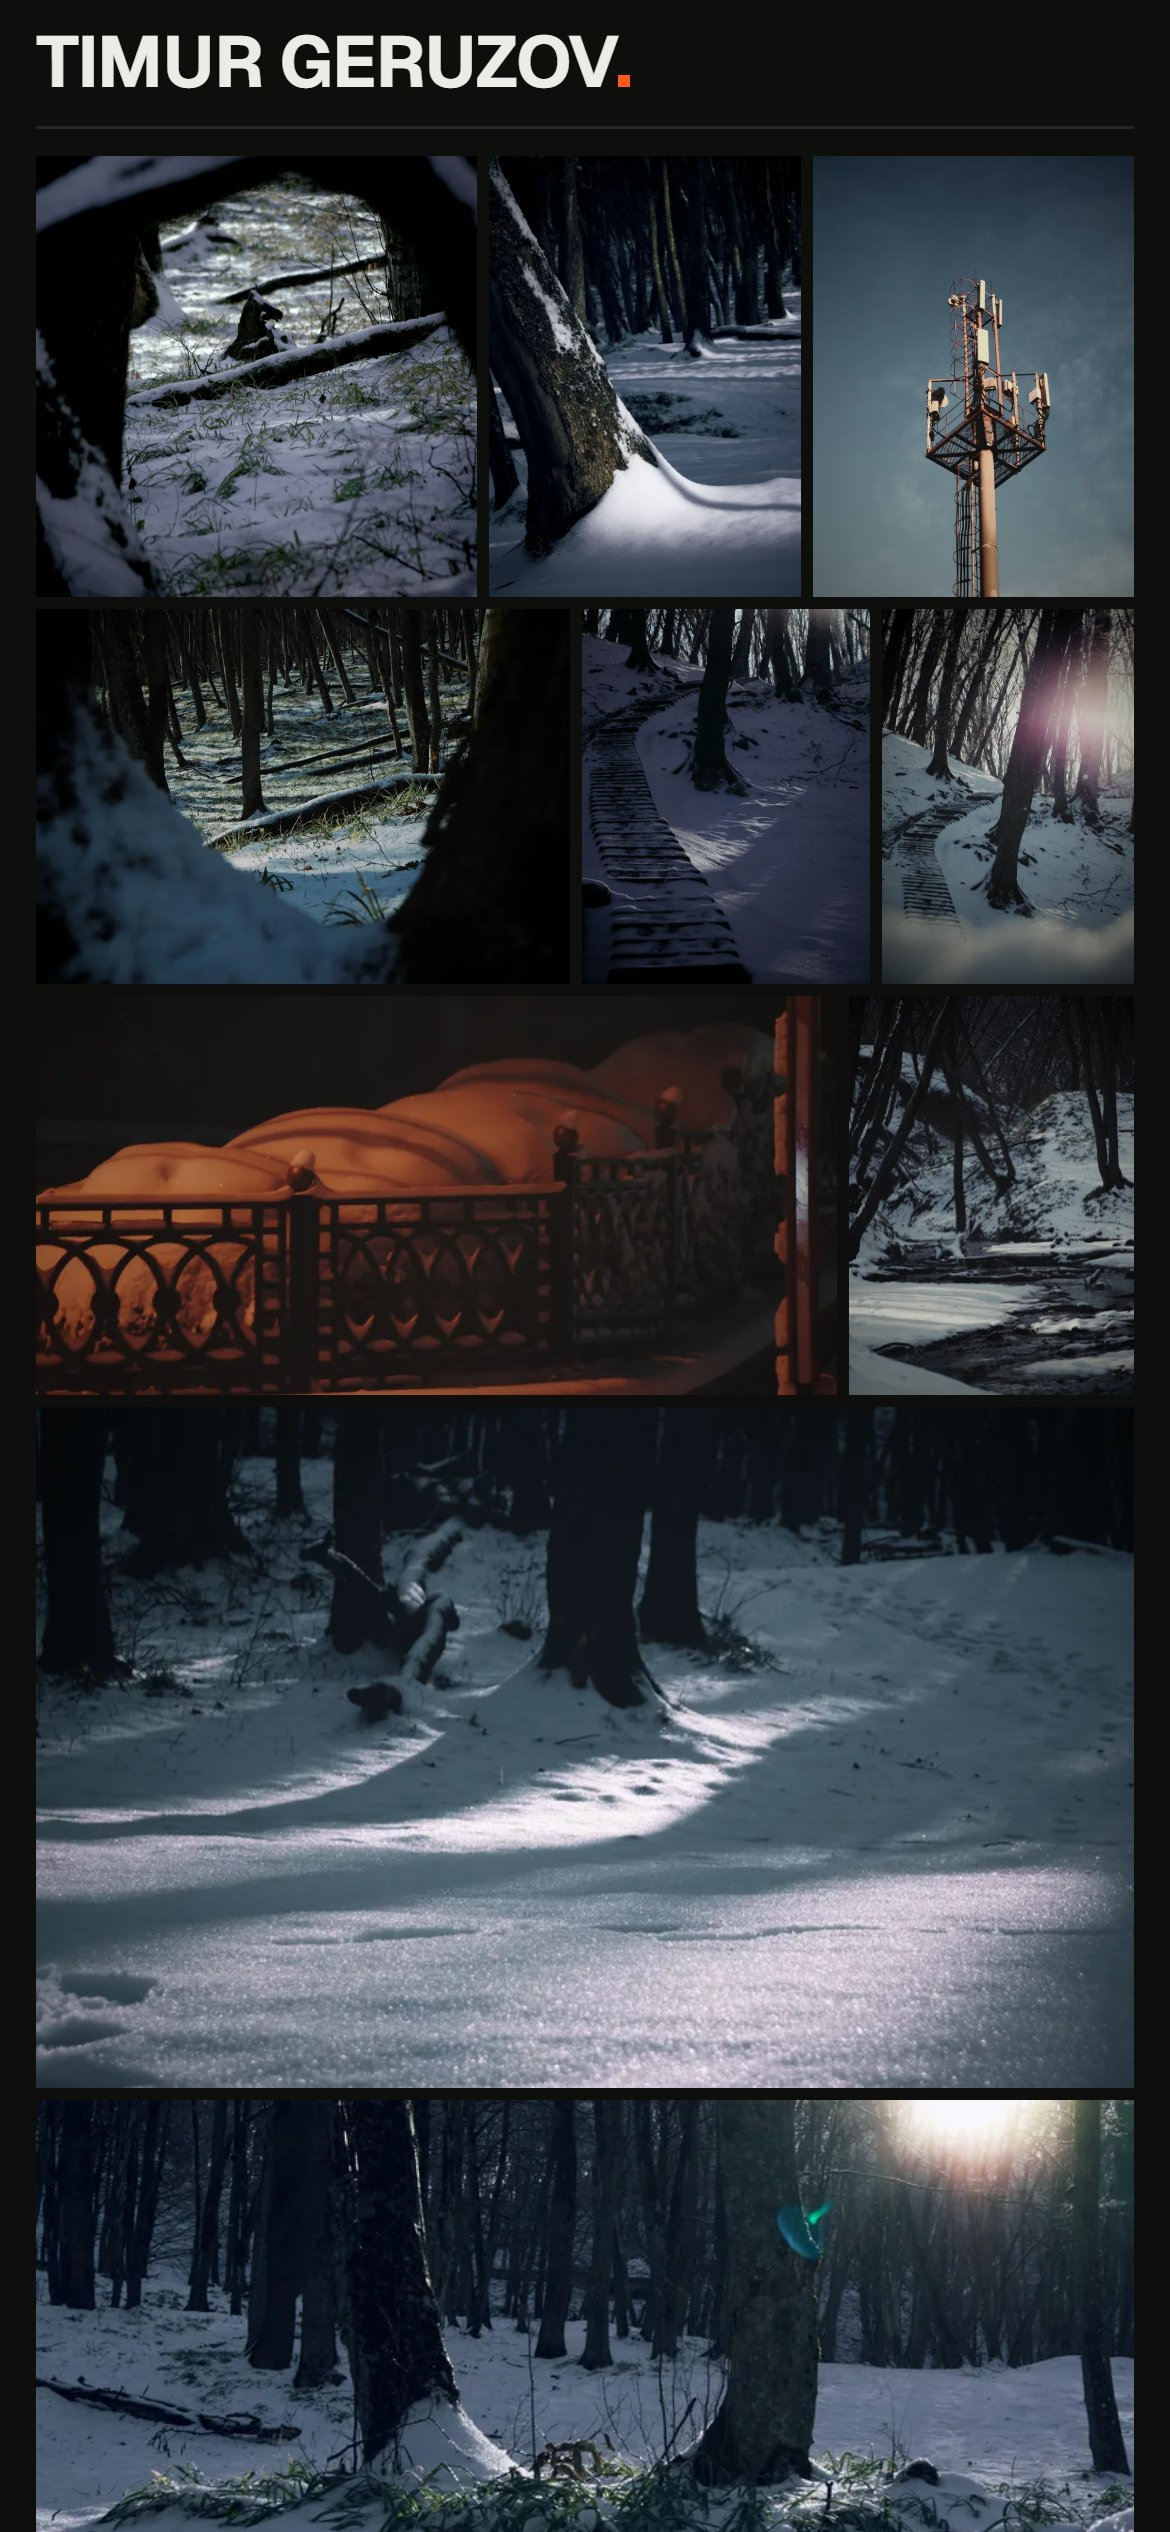
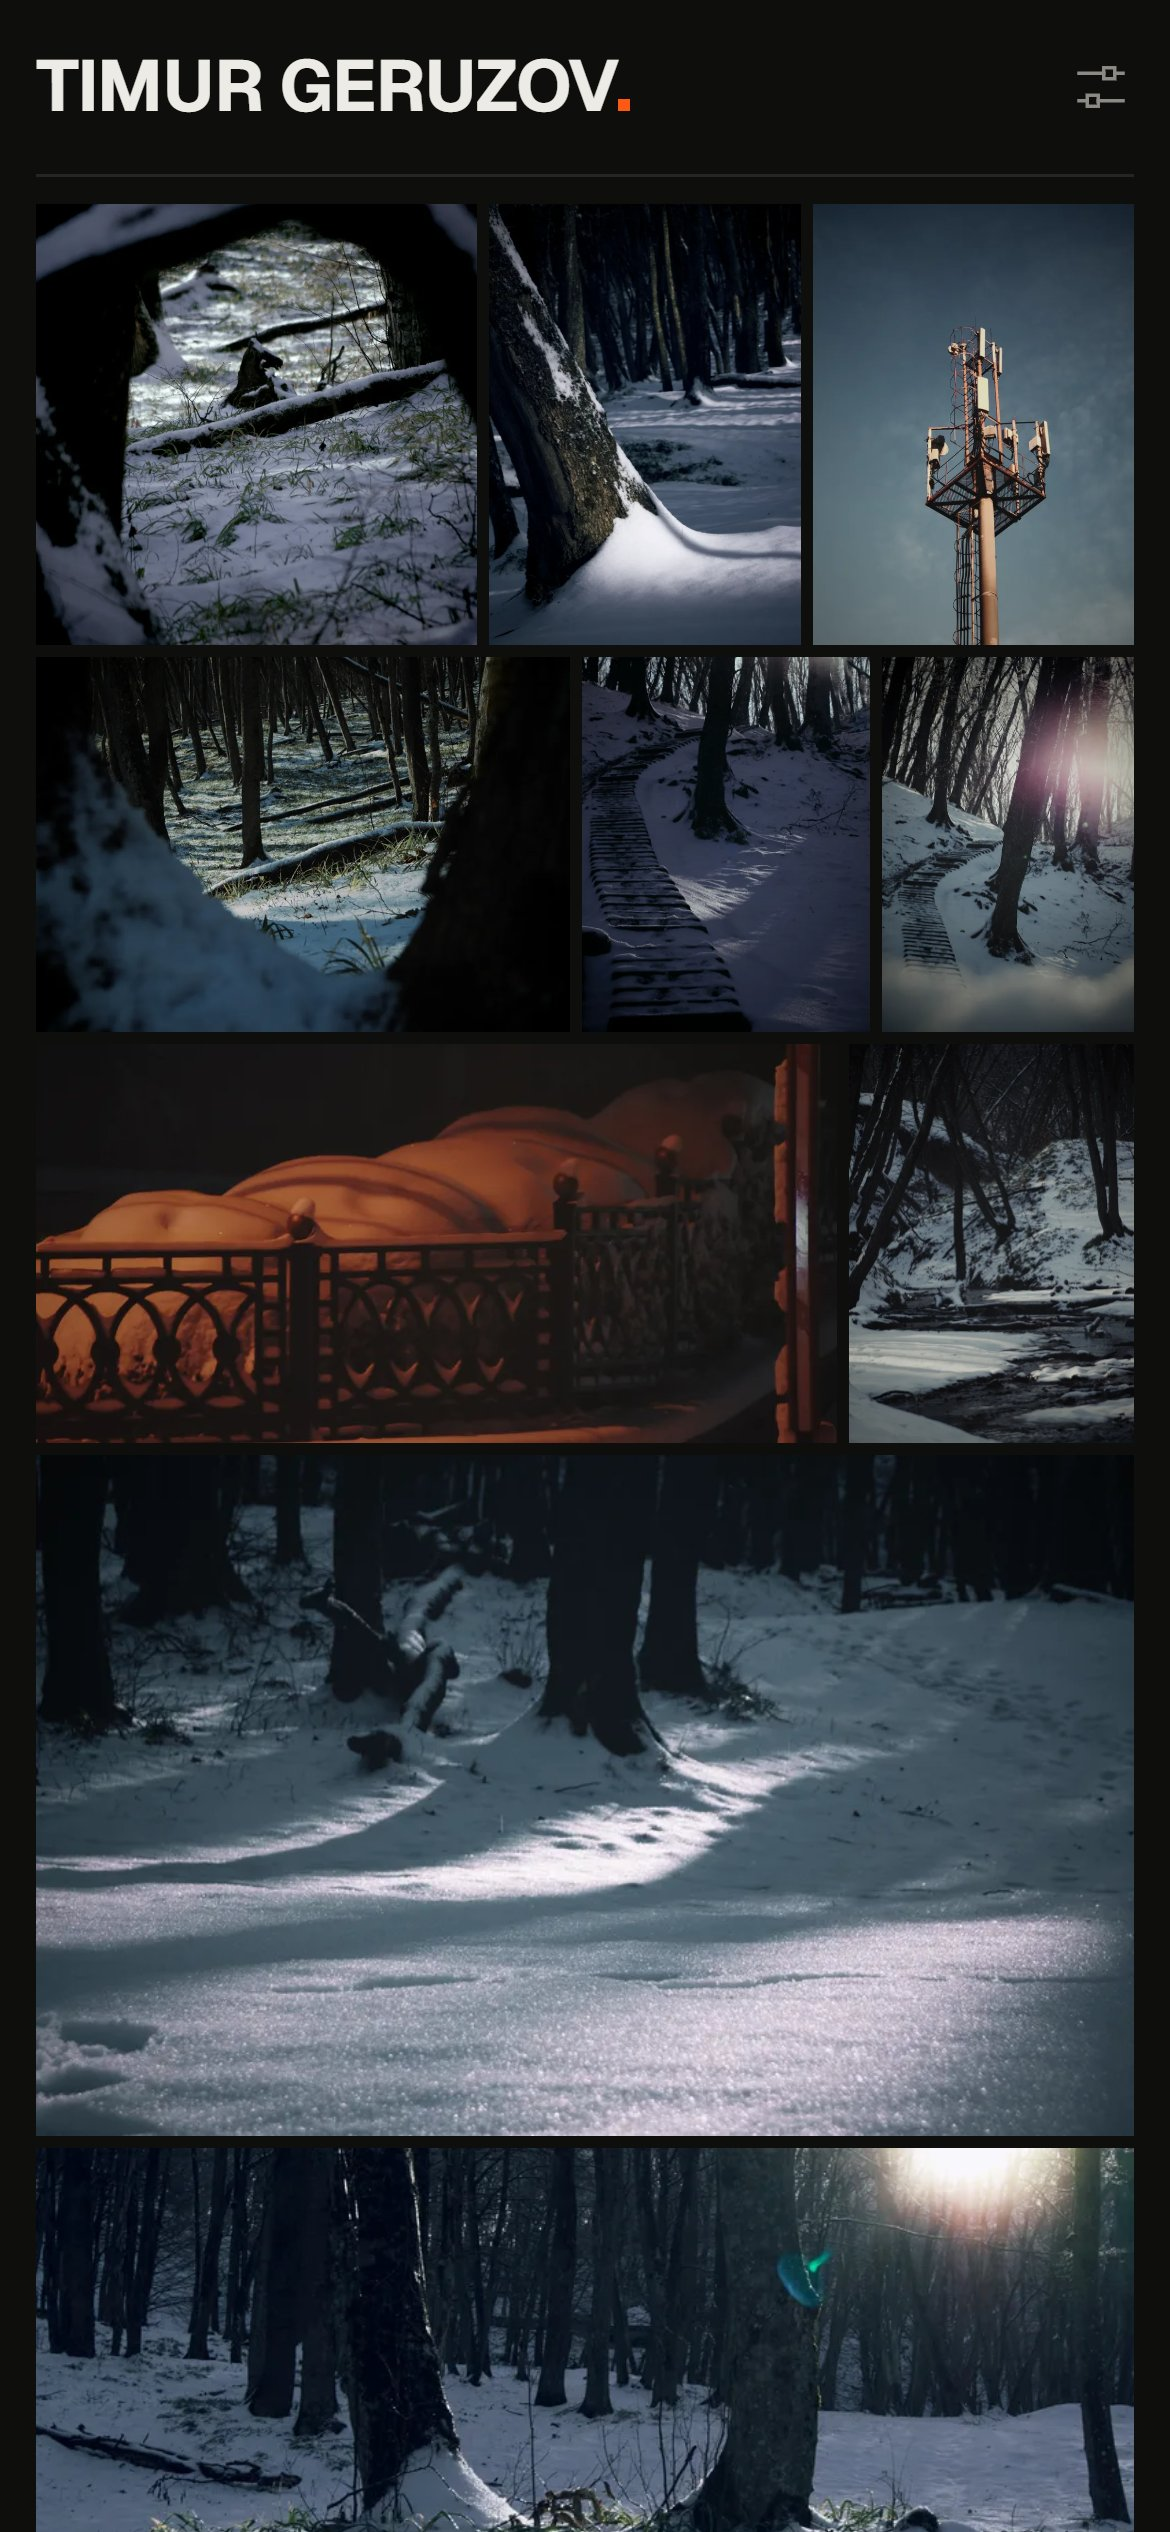
docs(readme): retake screenshots, admin header on the phone shot
- All five README screenshots are retaken on the current interface
- gallery.jpg, lightbox.jpg and upload.jpg came out byte for byte the same as in 0.7.2, which confirms they already showed the current UI
- mobile.jpg is now taken as the administrator, so the header shows the settings icon like on the desktop shot

diff --git a/README.md b/README.md
@@ -55,7 +55,7 @@ docker compose up --build
 <p align="center">
   <img src="docs/images/lightbox.jpg" width="560" alt="Просмотр фото: снимок на весь экран, счётчик 04 / 12 и едва заметные крестик и стрелки">
   &nbsp;&nbsp;
-  <img src="docs/images/mobile.jpg" width="162" alt="Галерея на телефоне: по два снимка в строке">
+  <img src="docs/images/mobile.jpg" width="162" alt="Галерея на телефоне: имя и иконка управления в шапке, по два-три снимка в строке">
 </p>
 
 ### Управление
